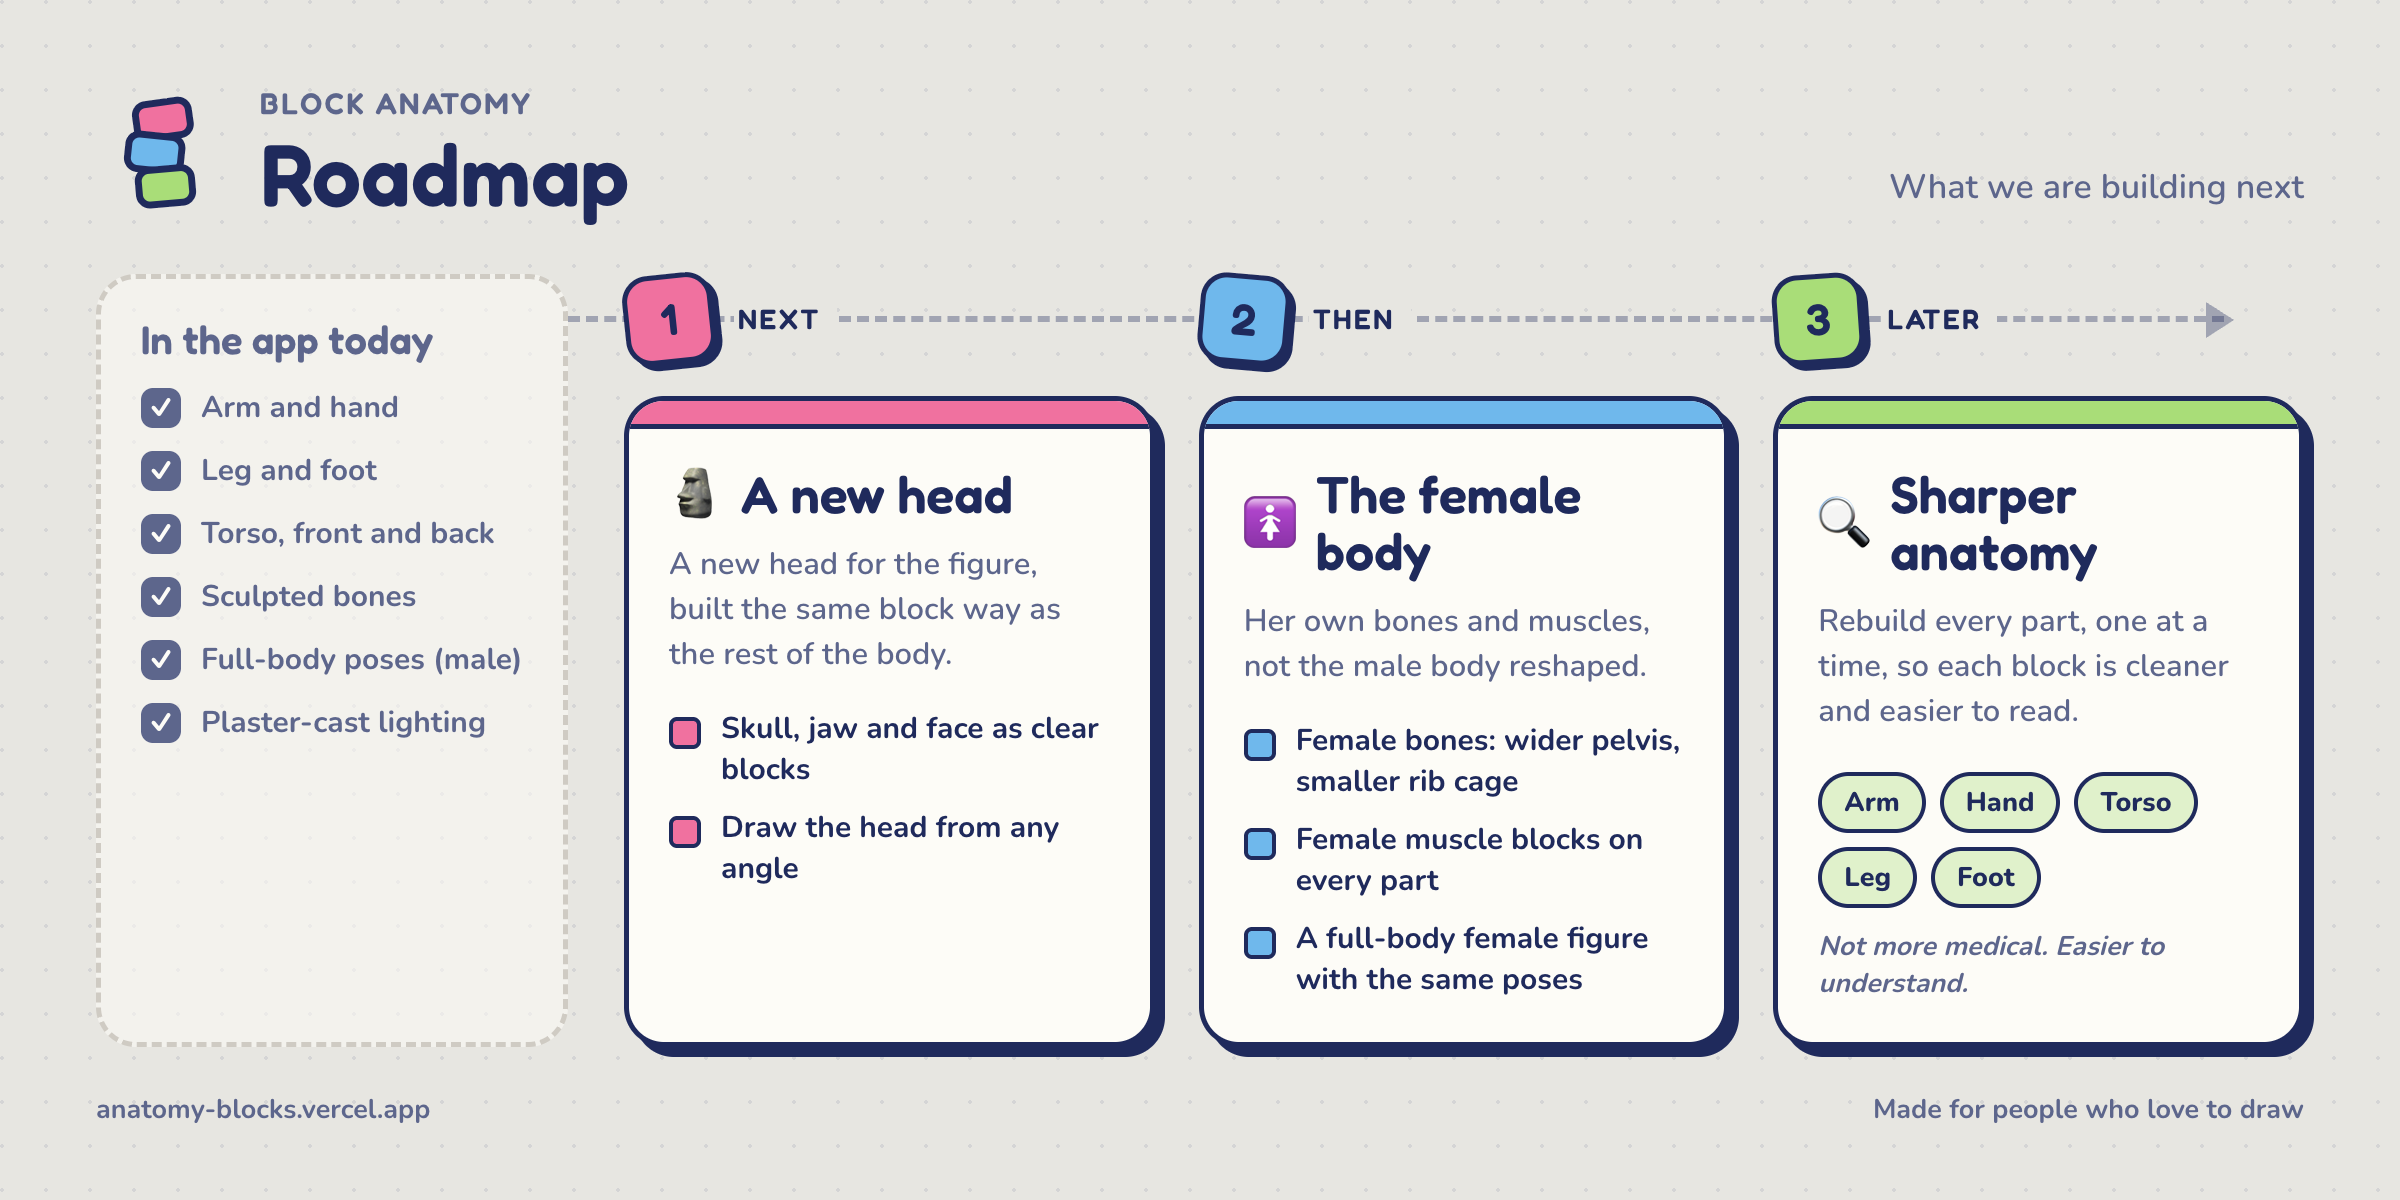
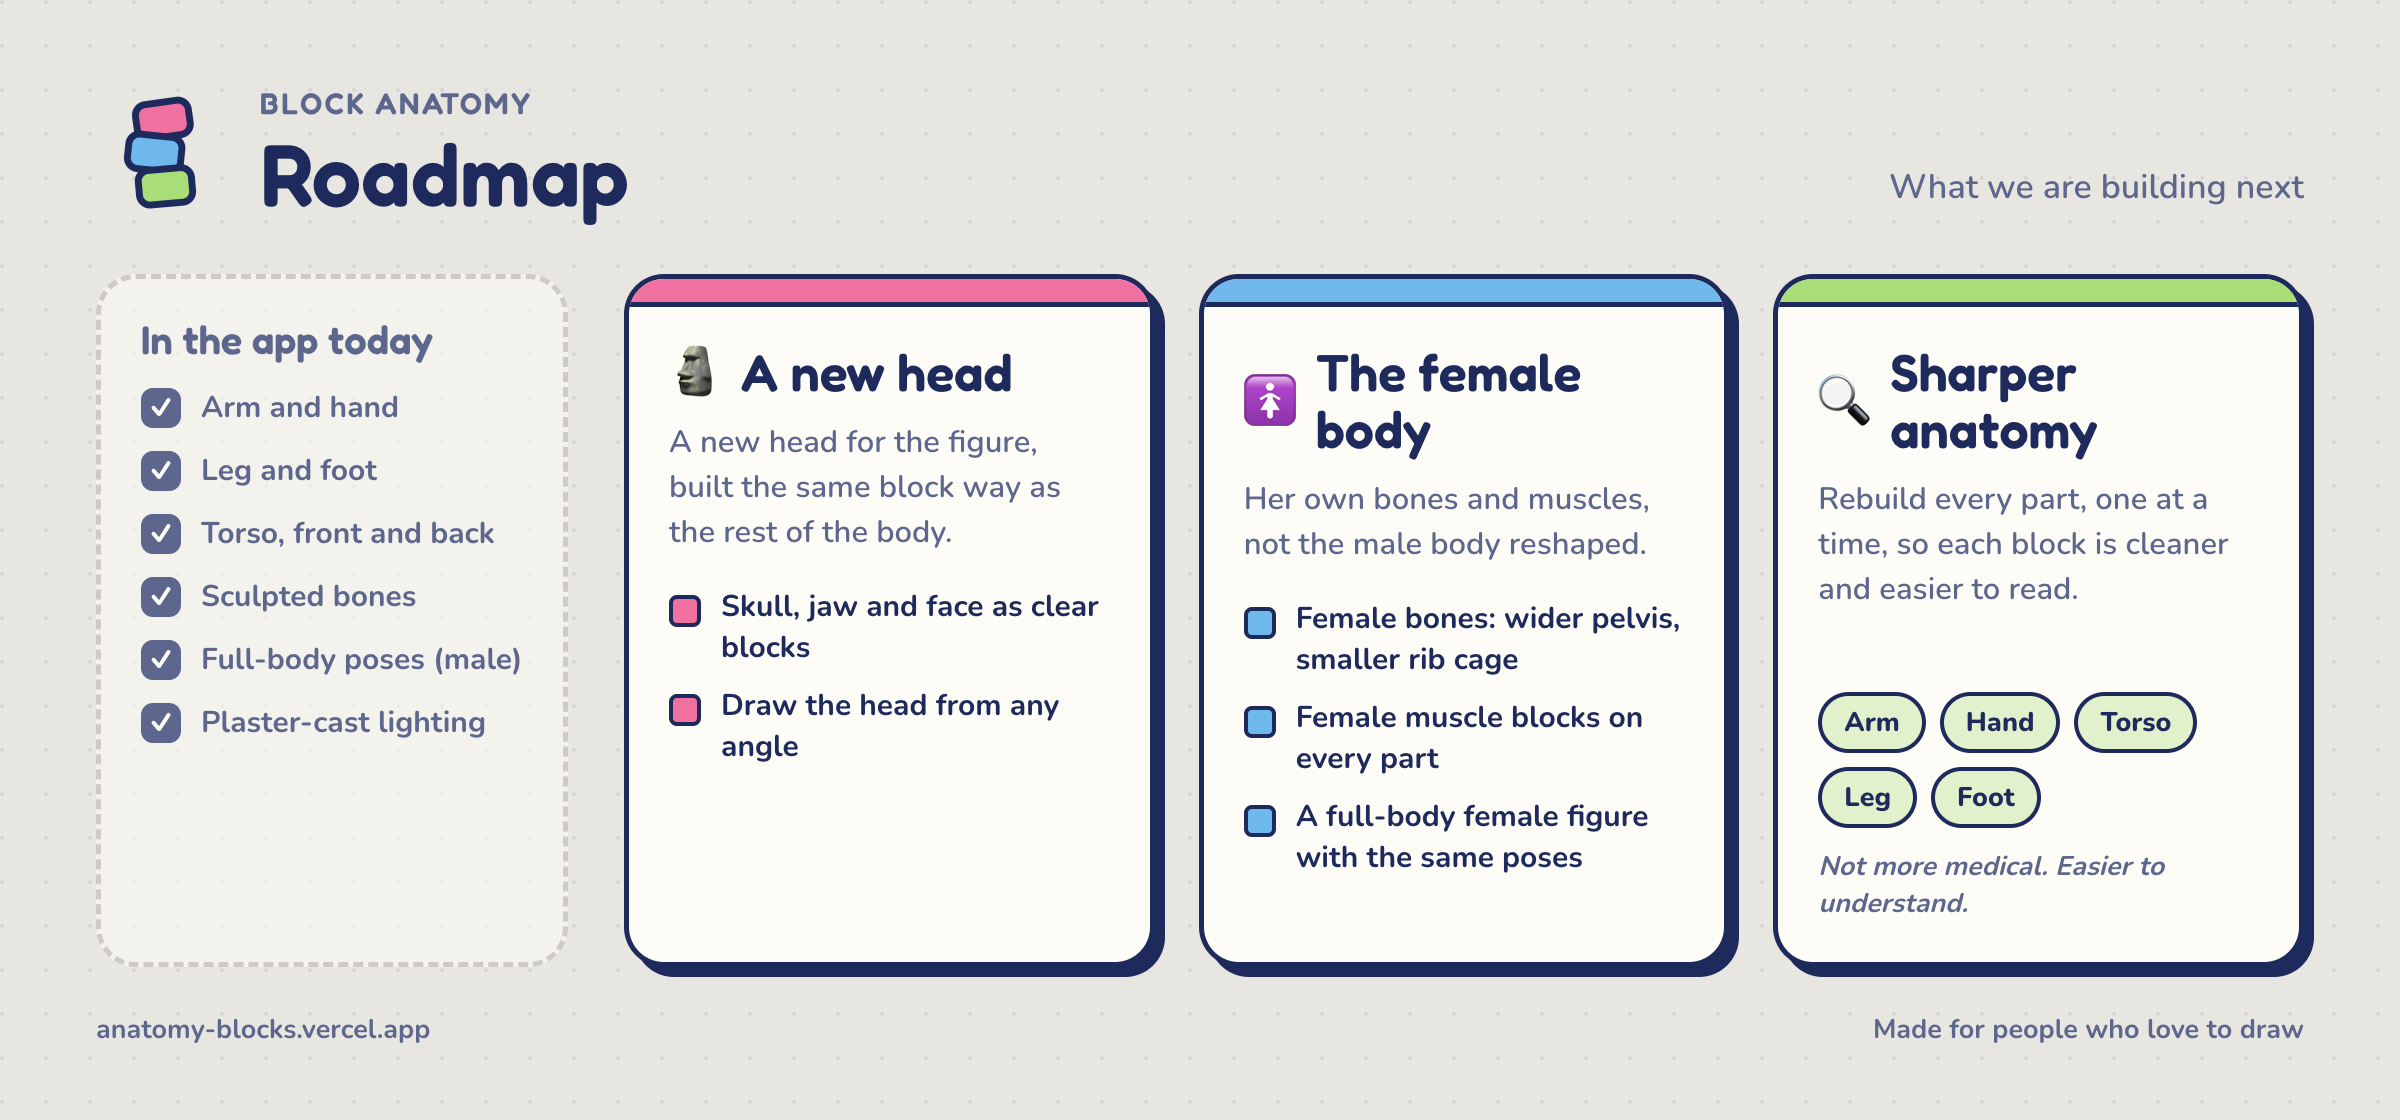
Roadmap: a plain list, not numbered steps
The three plans are cards side by side, with no 1/2/3, no Next/Then/Later
and no road. The board is 1200 x 560 now that the stop markers are gone.

diff --git a/docs/roadmap.html b/docs/roadmap.html
@@ -41,11 +41,11 @@
         -webkit-font-smoothing: antialiased;
       }
 
-      /* The board is exactly what the screenshot captures: 1200 × 600 (2:1). */
+      /* The board is exactly what the screenshot captures: 1200 × 560. */
       .board {
         position: relative;
         width: 1200px;
-        height: 600px;
+        height: 560px;
         padding: 44px 48px 36px;
         display: flex;
         flex-direction: column;
@@ -94,43 +94,11 @@
         display: grid; place-items: center; font-size: 13px; font-weight: 800;
       }
 
-      /* ── The road ── */
-      .road { position: relative; display: grid; grid-template-columns: repeat(3, 1fr); gap: 22px; }
-      .road::before {
-        /* the dashed path the three stops sit on */
-        content: '';
-        position: absolute;
-        left: -28px; right: 40px; top: 21px;
-        border-top: 3px dashed var(--ink);
-        opacity: 0.35;
-      }
-      .road::after {
-        content: '';
-        position: absolute;
-        right: 26px; top: 14px;
-        border: 9px solid transparent;
-        border-left: 14px solid var(--ink);
-        opacity: 0.35;
-      }
-      .stop { position: relative; display: flex; flex-direction: column; min-height: 0; }
-      .pin { display: flex; align-items: center; gap: 10px; height: 45px; }
-      .pin b {
-        width: 45px; height: 45px; border-radius: 13px;
-        border: 2.6px solid var(--ink);
-        background: var(--c);
-        display: grid; place-items: center;
-        font: 600 22px/1 var(--display);
-        transform: rotate(var(--tilt));
-        box-shadow: 3px 3px 0 var(--ink);
-      }
-      .pin span {
-        font: 600 14px/1 var(--display);
-        letter-spacing: 0.08em; text-transform: uppercase;
-        background: var(--paper); padding: 4px 8px 4px 2px;
-      }
+      /* ── What we plan to build: a plain list of cards, in no particular order ── */
+      .plans { display: grid; grid-template-columns: repeat(3, 1fr); gap: 22px; }
+      .plan { display: flex; flex-direction: column; min-height: 0; }
 
       .card {
-        margin-top: 16px;
         flex: 1;
         background: var(--card);
         border: 2.6px solid var(--ink);
@@ -186,7 +154,7 @@
 
     <script>
       /*
-       * The roadmap. Each stop is a real feature we plan to build, in the order we plan to build it.
+       * The roadmap. Each card is a real feature we plan to build. It is a list, not steps: no numbers, no order.
        * Every string has an English and a Chinese version: { en, zh }.
        */
       const ROADMAP = {
@@ -206,11 +174,9 @@
           ],
         },
 
-        stops: [
+        plans: [
           {
             color: 'var(--pink)',
-            tilt: '-6deg',
-            when: { en: 'Next', zh: '下一步' },
             icon: '🗿',
             title: { en: 'A new head', zh: '全新的头部' },
             text: {
@@ -224,8 +190,6 @@
           },
           {
             color: 'var(--blue)',
-            tilt: '5deg',
-            when: { en: 'Then', zh: '然后' },
             icon: '🚺',
             title: { en: 'The female body', zh: '女性身体' },
             text: {
@@ -240,8 +204,6 @@
           },
           {
             color: 'var(--green)',
-            tilt: '-4deg',
-            when: { en: 'Later', zh: '之后' },
             icon: '🔍',
             title: { en: 'Sharper anatomy', zh: '更清晰的解剖' },
             text: {
@@ -281,9 +243,8 @@
           </g>
         </svg>`
 
-      const stop = (s, i) => `
-        <section class="stop" style="--c:${s.color};--tilt:${s.tilt}">
-          <div class="pin"><b>${i + 1}</b><span>${tx(s.when)}</span></div>
+      const plan = (s) => `
+        <section class="plan" style="--c:${s.color}">
           <article class="card">
             <div class="band"></div>
             <div class="body">
@@ -312,7 +273,7 @@
             <h2>${tx(ROADMAP.today.title)}</h2>
             <ul>${ROADMAP.today.items.map((x) => `<li><span class="tick">✓</span>${tx(x)}</li>`).join('')}</ul>
           </aside>
-          <div class="road">${ROADMAP.stops.map(stop).join('')}</div>
+          <div class="plans">${ROADMAP.plans.map(plan).join('')}</div>
         </main>
         <footer><span>${tx(ROADMAP.footer.left)}</span><span>${tx(ROADMAP.footer.right)}</span></footer>`
     </script>
